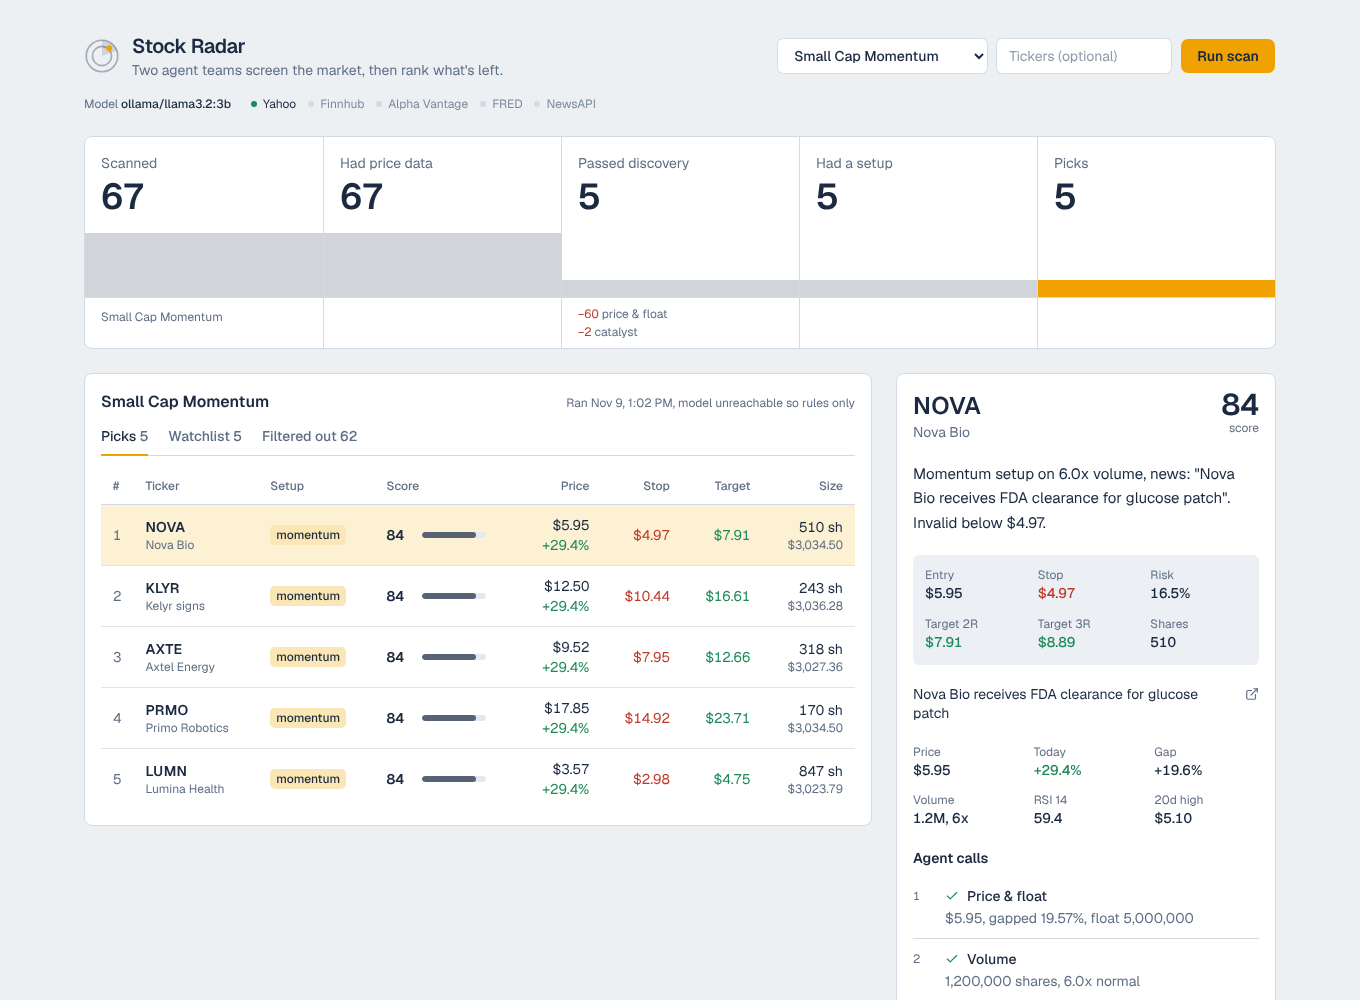
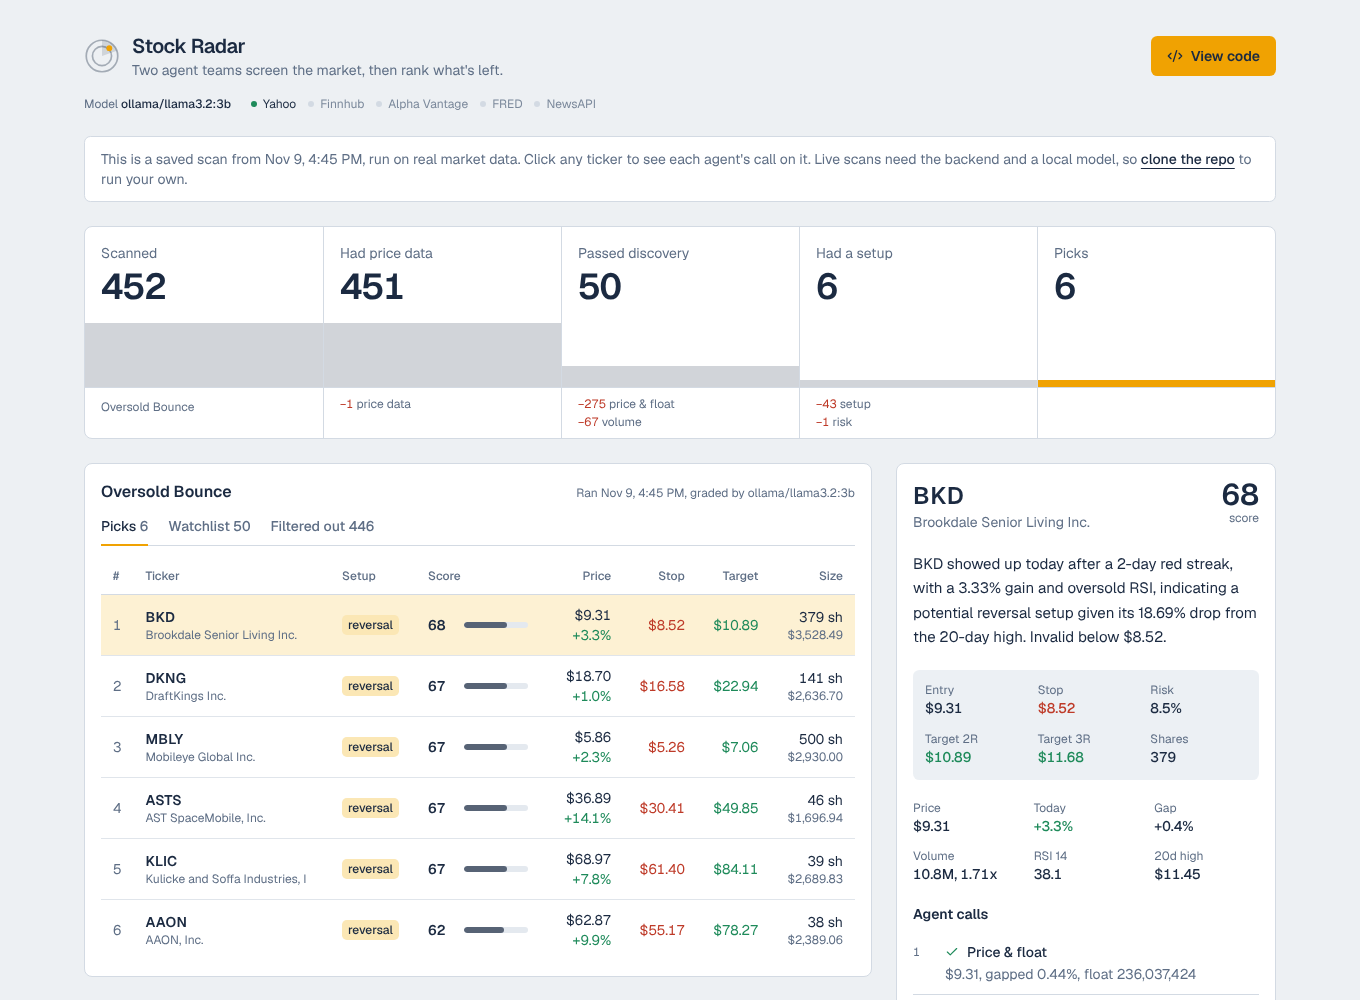
real screenshot, clearer rsi label in trade notes

diff --git a/backend/agents/team2/scoring_agent.py b/backend/agents/team2/scoring_agent.py
@@ -41,9 +41,9 @@ def run(snap: dict, setup: dict, catalyst: dict, risk: dict, sentiment: dict | N
         "setup checks passed": ", ".join(k for k, ok in setup["data"].get("checks", {}).items() if ok),
         "change today %": snap.get("change_percent"),
         "relative volume": f"{snap.get('relative_volume')}x",
-        "RSI 14": snap.get("rsi_14"),
+        "RSI": snap.get("rsi_14"),
         "% from 20-day high": snap.get("pct_from_high_20"),
-        "red days before today": snap.get("down_streak"),
+        "red days in a row before today": snap.get("down_streak") or None,
         "news": headline,
     }.items() if v not in (None, ""))
 

diff --git a/README.md b/README.md
@@ -6,7 +6,7 @@ A multi-agent stock screener. Two teams of small agents work through a list of t
 
 ![Dashboard with sample data](docs/dashboard.png)
 
-*Screenshot uses made-up tickers.*
+*From a real Oversold Bounce scan on November 9, 2026, graded by Llama 3.2 3B running locally.*
 
 ## How a scan works
 
